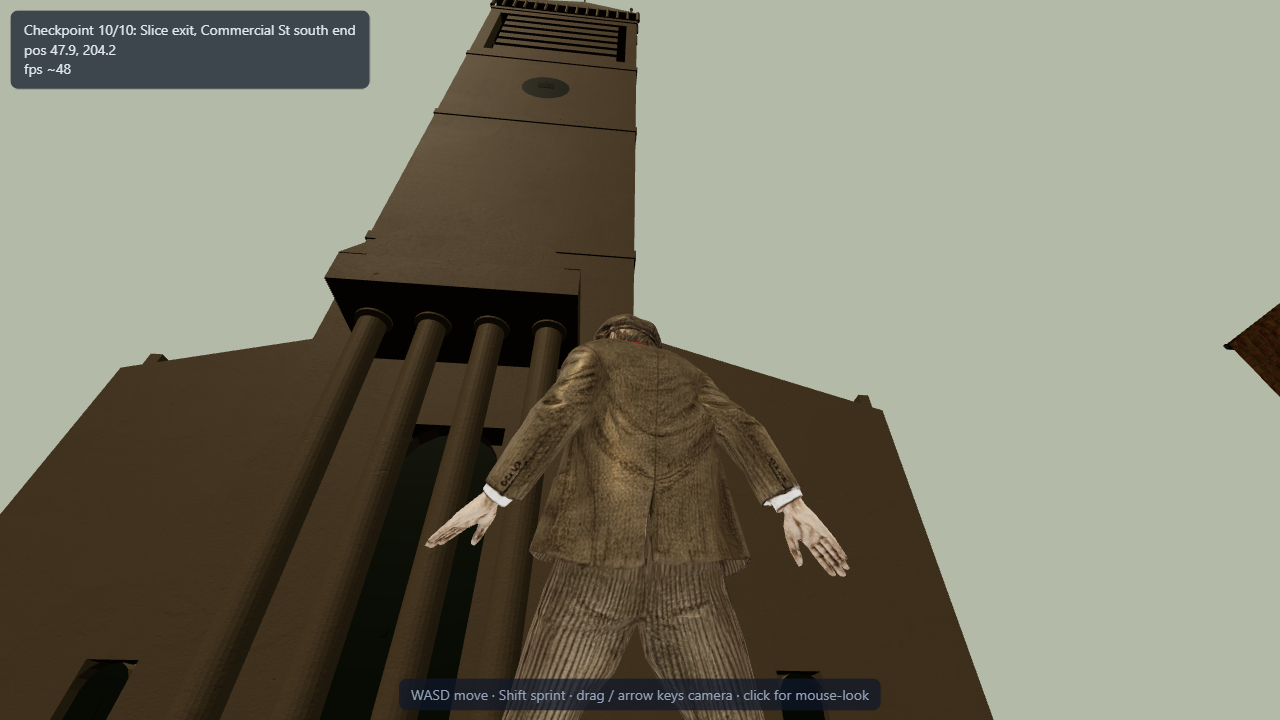
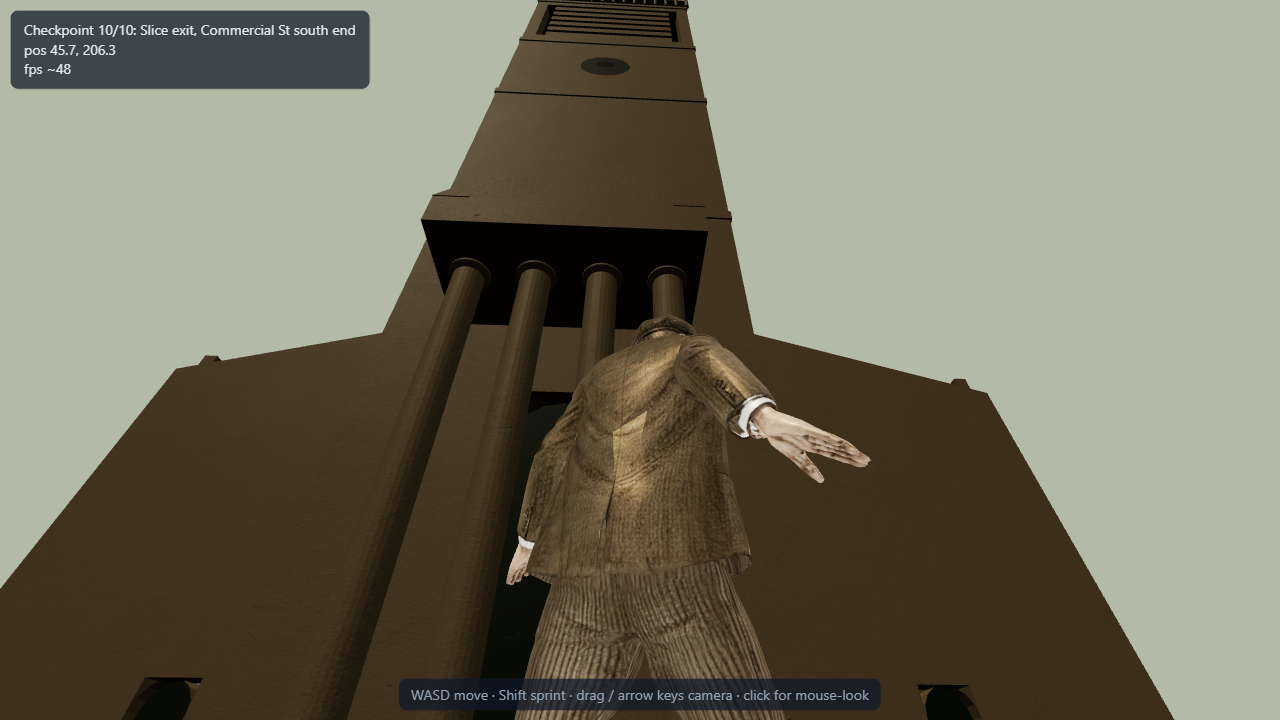
STAGE 5 COMPLETE: feel polish, all measured by playing — NPC soft body (min distance 0.68 m under 4 s of sprint pressure, feel.mjs), sprint FOV kick 70->75.9->70, mission replay with best-time tracking (gate now 16/16 incl. replay re-arm)

diff --git a/sandbox/index.html b/sandbox/index.html
@@ -212,6 +212,13 @@ spawnNPC('constable', 1.80,
 function npcTick(dt){
   for (const n of npcs){
     n.mixer.update(dt);
+    // soft body: walking through people feels broken — push the PLAYER out
+    const pdx = player.position.x - n.grp.position.x, pdz = player.position.z - n.grp.position.z;
+    const pd = Math.hypot(pdx, pdz);
+    if (pd > 1e-4 && pd < 0.7){
+      const push = (0.7 - pd);
+      player.position.x += pdx/pd * push; player.position.z += pdz/pd * push;
+    }
     if (n.state === 'idle'){
       n.wait -= dt;
       if (n.wait <= 0){ n.state='walk'; n.act.idle.crossFadeTo(n.act.walk.reset().play(), 0.3, false); }
@@ -344,7 +351,7 @@ const M_POINTS = [
   {x:41,  z:207, prompt:'E — deliver to the church',    hud:'deliver to the church (3/3)'},
   {x:234, z:150, prompt:'E — finish the round',         hud:'return to the market'},
 ];
-const mission = { idx:0, active:false, t0:null, tEnd:null };
+const mission = { idx:0, active:false, t0:null, tEnd:null, best:null, rounds:0 };
 const mBeacon = new THREE.Mesh(new THREE.CylinderGeometry(1.0,1.0,26,12,1,true),
   new THREE.MeshBasicMaterial({color:0xfbbf24,transparent:true,opacity:0.3,side:THREE.DoubleSide}));
 mBeacon.visible=false; scene.add(mBeacon);
@@ -369,6 +376,19 @@ let ePrev=false;
 function missionTick(){
   if(!mission.active && tDone!==null && mission.idx===0){ mission.active=true;
     setTimeout(()=>{ if(!mission.tEnd) document.getElementById('done').style.display='none'; }, 3500); }
+  // replay: a finished round re-arms at the market with the best time on offer
+  if(mission.tEnd!==null){
+    const m0=M_POINTS[0];
+    const near0=Math.hypot(player.position.x-m0.x,player.position.z-m0.z)<4;
+    promptEl.style.display=near0?'block':'none';
+    if(near0) promptEl.textContent=`E — run the round again (best ${(mission.best/1000).toFixed(1)} s)`;
+    const e=!!keys.KeyE;
+    if(near0 && e && !ePrev){
+      mission.idx=0; mission.t0=null; mission.tEnd=null;
+      document.getElementById('done').style.display='none';
+    }
+    ePrev=e; mBeacon.visible=false; return;
+  }
   if(!mission.active || mission.idx>=M_POINTS.length){ mBeacon.visible=false; promptEl.style.display='none'; return; }
   const p=M_POINTS[mission.idx];
   mBeacon.visible=true; mBeacon.position.set(p.x,13,p.z);
@@ -381,10 +401,15 @@ function missionTick(){
     mission.idx++; ding();
     basket.visible = mission.idx>=1 && mission.idx<4;
     if(mission.idx===M_POINTS.length){
-      mission.tEnd=performance.now(); mBeacon.visible=false;
+      mission.tEnd=performance.now(); mBeacon.visible=false; mission.rounds++;
+      const t=mission.tEnd-mission.t0;
+      const newBest = mission.best===null || t<mission.best;
+      if(newBest) mission.best=t;
       const d=document.getElementById('done');
-      d.textContent=`ROUND COMPLETE — ${((mission.tEnd-mission.t0)/1000).toFixed(1)} s`;
+      d.textContent=`ROUND COMPLETE — ${(t/1000).toFixed(1)} s`+
+        (mission.rounds>1 ? (newBest?' — NEW BEST':` (best ${(mission.best/1000).toFixed(1)} s)`) : '');
       d.style.display='block';
+      setTimeout(()=>{ d.style.display='none'; }, 5000);
     }
   }
   ePrev=e;
@@ -401,10 +426,11 @@ window.__game = { get route(){return route.map(r=>[r[1],r[2]])},
   get activeCamera(){return renderer.info.render.frame>0 ? _lastCam : 'none'},
   get anim(){return char.model ? char.active : 'no-character'},
   get world(){return worldReport}, get steps(){return stepCount},
-  get ambience(){return !!ambience},
+  get ambience(){return !!ambience}, get fov(){return gameplayCamera.fov},
   get npcs(){return npcs.map(n=>({x:n.grp.position.x, z:n.grp.position.z, state:n.state}))},
   get mission(){return {idx:mission.idx, total:M_POINTS.length, active:mission.active,
     done:mission.tEnd!==null, seconds:mission.tEnd?(mission.tEnd-mission.t0)/1000:null,
+    best:mission.best?mission.best/1000:null, rounds:mission.rounds,
     target:mission.idx<M_POINTS.length?[M_POINTS[mission.idx].x,M_POINTS[mission.idx].z]:null}},
   get rig(){ if(!char.model) return null;
     const p = char.footBone ? char.footBone.getWorldPosition(new THREE.Vector3()) : null;
@@ -468,6 +494,13 @@ function tick(now){
         const d=document.getElementById('done');
         d.textContent=`ROUTE COMPLETE — ${((tDone-tStart)/1000).toFixed(1)} s`; d.style.display='block'; }
     }
+  }
+
+  // sprint FOV kick — speed you can feel
+  const wantFov = (len>0 && sprinting) ? 76 : 70;
+  if (Math.abs(gameplayCamera.fov - wantFov) > 0.1){
+    gameplayCamera.fov += (wantFov - gameplayCamera.fov) * Math.min(1, 8*dt);
+    gameplayCamera.updateProjectionMatrix();
   }
 
   // third-person camera, pulled in when a wall occludes the player
